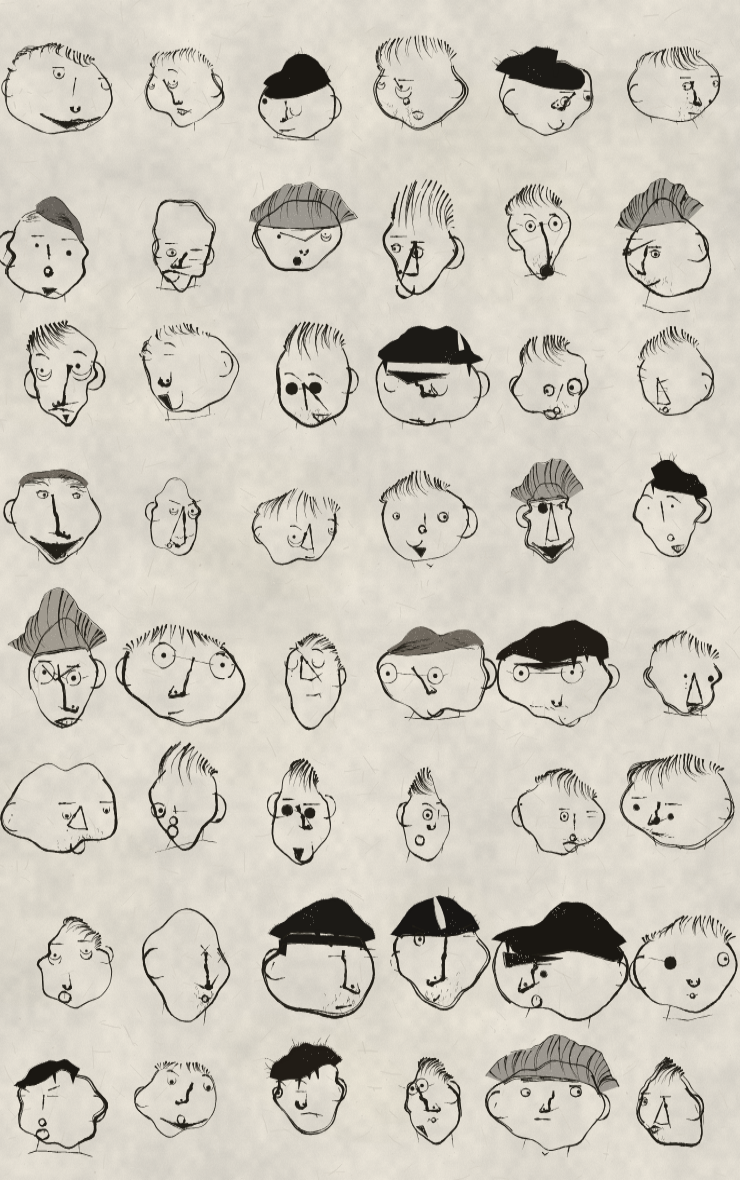
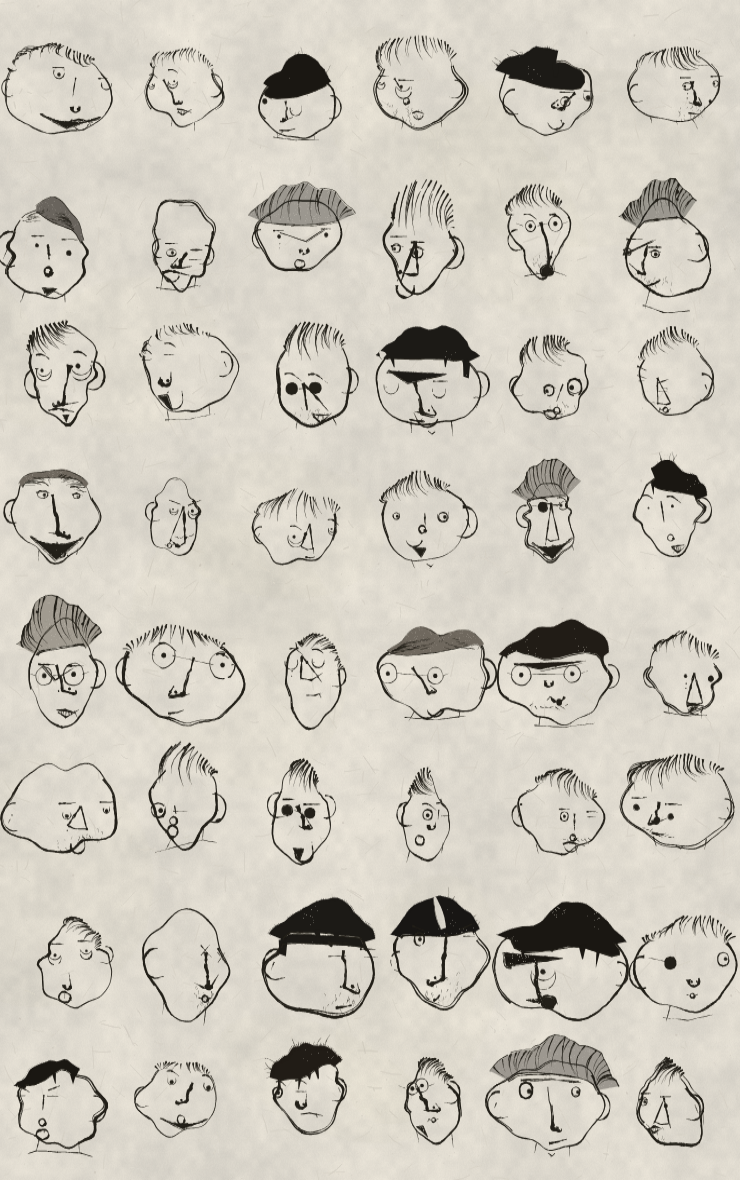
Gauntlet: cap how far a hat may project
A peak pinned at z=1.3 swings a full head-radius sideways under yaw and
lays a grey slab across the face. Hats are still allowed to leave the
skull, but their distance from the centre is now capped against the
outline radius in that direction, and the hat hairlines sit high enough
that a pitched head does not wear its cap over its eyes.

Claude-Session: https://claude.ai/code/session_01RJWY9ufwnD6fjwW6ve4one

diff --git a/dude.js b/dude.js
@@ -790,6 +790,21 @@
     // Pull a point back inside the outline. Features that slide off the
     // silhouette on a hard turn are the single loudest tell that a face was
     // assembled rather than drawn.
+    // Cap how far outside the outline a point may sit. Hats are allowed to
+    // leave the skull; they are not allowed to swing across the face when the
+    // head turns, which is what a raw z=1.3 pin does under yaw.
+    capOut(p, mult) {
+      if (!this._rad) return p;
+      const dx = p.x - this.cx;
+      const dy = p.y - this.cy;
+      const d = Math.hypot(dx, dy);
+      if (d < 1e-6) return p;
+      const max = this.radAt(Math.atan2(dy, dx)) * mult;
+      if (d <= max) return p;
+      const k = max / d;
+      return { x: this.cx + dx * k, y: this.cy + dy * k, z: p.z, front: p.front };
+    }
+
     limit(p, margin) {
       if (!this._rad) return p;
       const dx = p.x - this.cx;
@@ -832,8 +847,8 @@
     return skull.limit(skull.project(local), skull.s * 0.045);
   }
 
-  function pinOut(skull, local) {
-    return skull.project(local);
+  function pinOut(skull, local, mult) {
+    return skull.capOut(skull.project(local), mult ?? 1.3);
   }
 
   // ---------- head ----------
@@ -1427,7 +1442,7 @@
     }
 
     if (style === "beanie") {
-      const h = mk({ lineY: -0.36, bangs: 0.03, puff: 0.2, wob: 0.015 });
+      const h = mk({ lineY: -0.44, bangs: 0.03, puff: 0.2, wob: 0.015 });
       if (h) {
         inkMassFill(c, rng, h.mass, color, { bite: s * 0.028 });
         // knit ribbing runs with the dome, not straight down
@@ -1449,7 +1464,7 @@
     }
 
     if (style === "flat") {
-      const h = mk({ lineY: -0.4, bangs: 0.02, puff: 0.09, wob: 0.02 });
+      const h = mk({ lineY: -0.46, bangs: 0.02, puff: 0.09, wob: 0.02 });
       if (h) {
         inkMass(c, rng, h, color, { strays: 0, rag: 1.1, edge: 3.2 });
         const bL = pinOut(skull, { x: -0.5, y: -0.3, z: 0.78 });
@@ -1464,7 +1479,7 @@
     }
 
     if (style === "baseball") {
-      const h = mk({ lineY: -0.36, puff: 0.15, wob: 0.015 });
+      const h = mk({ lineY: -0.44, puff: 0.15, wob: 0.015 });
       if (h) {
         inkFill(c, rng, h.mass, color, 0.34, s * 0.01);
         c.save();
